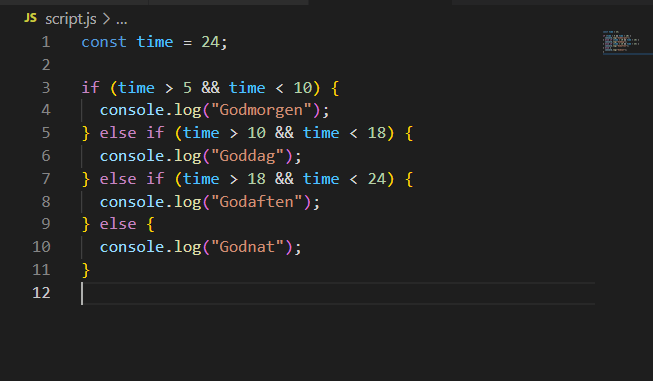
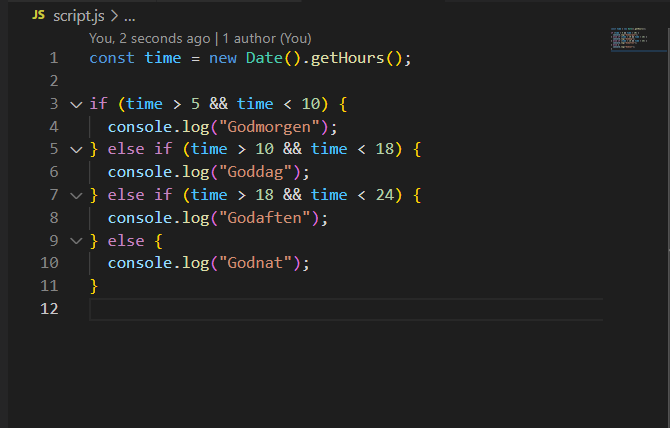
ovelse 3

Changed region(s): [[0.0306, 0.0866, 0.6432, 0.7795], [0.0306, 0.0289, 0.6126, 0.1732], [0.8882, 0.0577, 1.0, 1.0]]

diff --git a/Ovelse_3/index.html b/Ovelse_3/index.html
@@ -1,0 +1,18 @@
+<!DOCTYPE html>
+<html lang="en">
+  <head>
+    <meta charset="UTF-8" />
+    <meta http-equiv="X-UA-Compatible" content="IE=edge" />
+    <meta name="viewport" content="width=device-width, initial-scale=1.0" />
+    <title>Document</title>
+  </head>
+  <body>
+    <h1>Gæt et tal</h1>
+    <p>Skriv et tal imellem 0 og 10</p>
+    <form action="">
+      <input type="number" id="tal" class="tal" min="0" max="10" step="1" value="5" />
+      <input type="submit" value="Tjek tal" />
+    </form>
+  </body>
+  <script src="script.js"></script>
+</html>

diff --git a/Ovelse_3/script.js b/Ovelse_3/script.js
@@ -1,0 +1,11 @@
+let forsog = 1;
+
+const tal = document.querySelector(".tal");
+
+let randTal = Math.floor(Math.random() * 11);
+console.log(randTal);
+
+const gaet = Number(tal.value);
+if (gaet === randTal) {
+  console.log("du vandt");
+}
